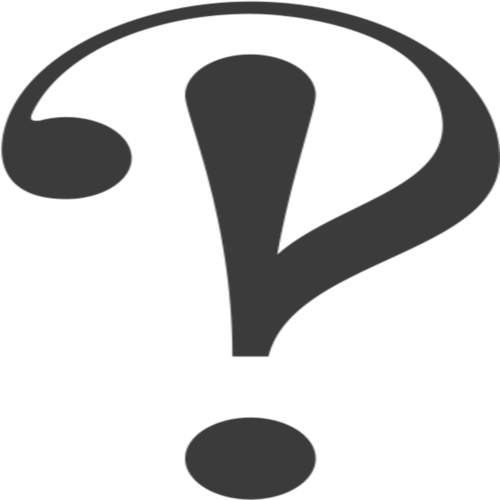
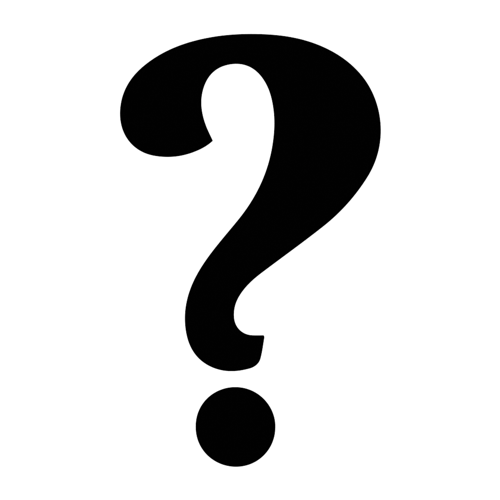
added some images and changed name to spyfall

diff --git a/public/service-worker.js b/public/service-worker.js
@@ -37,7 +37,7 @@
 /* eslint-disable indent, no-unused-vars, no-multiple-empty-lines, max-nested-callbacks, space-before-function-paren, quotes, comma-spacing */
 'use strict';
 
-var precacheConfig = [["app.js","16e49e1814f5ed0744223dba4b3ae9fa"],["browserconfig.xml","653d077300a12f09a69caeea7a8947f8"],["game.html","7c5897aa230f91f67d22be8becf40e0f"],["icons/android-icon-144x144.png","22a79be5a0272565bb5e49323ff9ca8f"],["icons/android-icon-192x192.png","0bbcf1657dee640be57fbaa82a162f0c"],["icons/android-icon-36x36.png","1e9cfc9ef22a74474761a5275bccbd18"],["icons/android-icon-48x48.png","ff3b9bdaee9c583a9146e191b04a151b"],["icons/android-icon-72x72.png","36d502b0e594e5933a96ba3fb874e817"],["icons/android-icon-96x96.png","c89cc107317601d58ca07e011486aa1d"],["icons/apple-icon-114x114.png","659a1d0b0c9bf3b32be06536e62a8e6a"],["icons/apple-icon-120x120.png","df0a728616bc53d9698249227ff84461"],["icons/apple-icon-144x144.png","22a79be5a0272565bb5e49323ff9ca8f"],["icons/apple-icon-152x152.png","573da1c8b7f31eb6c5d7de2f34e46fdf"],["icons/apple-icon-180x180.png","ac7278ded1e208a056e397aa9a6697a9"],["icons/apple-icon-57x57.png","c2bafc1d6e0e9273286541d5d289ead8"],["icons/apple-icon-60x60.png","a3fa6dee18c9646d0af13dbad8189652"],["icons/apple-icon-72x72.png","36d502b0e594e5933a96ba3fb874e817"],["icons/apple-icon-76x76.png","5f8dc17dbe413c47ec79bbd1dd02aeba"],["icons/apple-icon-precomposed.png","715af392fb846978e96c5e027506293f"],["icons/apple-icon.png","715af392fb846978e96c5e027506293f"],["icons/favicon-16x16.png","9938e16f64d32f0fb20eaca5e708be8a"],["icons/favicon-32x32.png","7da7e2a542f074c52a7aa72ce549c972"],["icons/favicon-96x96.png","c89cc107317601d58ca07e011486aa1d"],["icons/favicon.ico","9b2efce042caa48179bb68994c96aa33"],["icons/ms-icon-144x144.png","22a79be5a0272565bb5e49323ff9ca8f"],["icons/ms-icon-150x150.png","7ad943f43334f8fcb25f6d856d79be99"],["icons/ms-icon-310x310.png","5e39580ab2032e846126a3528da83b01"],["icons/ms-icon-70x70.png","ee8050990747c73b78e6837aec8eb531"],["images/question.png","f5be92d1206daa5989df30dfe8be58c6"],["images/sus.png","4441166bd87d048ef62aae65f757288d"],["index.html","c03ffe26ca5571d8a2d097403c9ccb75"],["index.js","ca2a6f7a1355f34a6a6dc4347d8f3fbb"],["locations/Basement.png","7e2eda6fe058609b46d4966eb113b023"],["locations/Beach.png","10d461891c791c861fd00d4808884011"],["locations/Chernobyl.png","59c4d960c978a1a315a05eb0a78ff645"],["locations/Hospital.png","cada1cfb8594156e1e7128aa9ea83df2"],["locations/Hotel.png","caace84cad67323a99a064e6b739a4fd"],["locations/Paris.png","3c43fd00e0cc2bd5157e0e7cf0a9b09d"],["locations/School.png","d7d30a60dad50f7499cf2a2e3df61997"],["locations/Volcano.png","14e55a98f2515752d9a4758bf28374a3"],["locations/Waterpark.png","9449138f521831008def171063d984ae"],["manifest.json","18e7e40fadd134a70cfe062b6bcb5e12"],["style.css","9b5bac206b55f9105481926835fd0378"]];
+var precacheConfig = [["app.js","16e49e1814f5ed0744223dba4b3ae9fa"],["browserconfig.xml","653d077300a12f09a69caeea7a8947f8"],["game.html","2d786c0db9e43b62d6bffa10935b0dda"],["icons/android-icon-144x144.png","22a79be5a0272565bb5e49323ff9ca8f"],["icons/android-icon-192x192.png","0bbcf1657dee640be57fbaa82a162f0c"],["icons/android-icon-36x36.png","1e9cfc9ef22a74474761a5275bccbd18"],["icons/android-icon-48x48.png","ff3b9bdaee9c583a9146e191b04a151b"],["icons/android-icon-72x72.png","36d502b0e594e5933a96ba3fb874e817"],["icons/android-icon-96x96.png","c89cc107317601d58ca07e011486aa1d"],["icons/apple-icon-114x114.png","659a1d0b0c9bf3b32be06536e62a8e6a"],["icons/apple-icon-120x120.png","df0a728616bc53d9698249227ff84461"],["icons/apple-icon-144x144.png","22a79be5a0272565bb5e49323ff9ca8f"],["icons/apple-icon-152x152.png","573da1c8b7f31eb6c5d7de2f34e46fdf"],["icons/apple-icon-180x180.png","ac7278ded1e208a056e397aa9a6697a9"],["icons/apple-icon-57x57.png","c2bafc1d6e0e9273286541d5d289ead8"],["icons/apple-icon-60x60.png","a3fa6dee18c9646d0af13dbad8189652"],["icons/apple-icon-72x72.png","36d502b0e594e5933a96ba3fb874e817"],["icons/apple-icon-76x76.png","5f8dc17dbe413c47ec79bbd1dd02aeba"],["icons/apple-icon-precomposed.png","715af392fb846978e96c5e027506293f"],["icons/apple-icon.png","715af392fb846978e96c5e027506293f"],["icons/favicon-16x16.png","9938e16f64d32f0fb20eaca5e708be8a"],["icons/favicon-32x32.png","7da7e2a542f074c52a7aa72ce549c972"],["icons/favicon-96x96.png","c89cc107317601d58ca07e011486aa1d"],["icons/favicon.ico","9b2efce042caa48179bb68994c96aa33"],["icons/ms-icon-144x144.png","22a79be5a0272565bb5e49323ff9ca8f"],["icons/ms-icon-150x150.png","7ad943f43334f8fcb25f6d856d79be99"],["icons/ms-icon-310x310.png","5e39580ab2032e846126a3528da83b01"],["icons/ms-icon-70x70.png","ee8050990747c73b78e6837aec8eb531"],["images/question.png","bae0181f7d859ce53877ca419600ac38"],["images/sus.png","4441166bd87d048ef62aae65f757288d"],["index.html","fb333f19f0c1ffcd3a5612ec49579a1d"],["index.js","ca2a6f7a1355f34a6a6dc4347d8f3fbb"],["locations/Airplane.png","7ffb70609be5abd2895f4954c4a08336"],["locations/Bank.png","251ca2e325a8d2b887a09a1963b991ed"],["locations/Basement.png","7e2eda6fe058609b46d4966eb113b023"],["locations/Beach.png","10d461891c791c861fd00d4808884011"],["locations/Casino.png","7d61117afbfc098a4738b7175bf16082"],["locations/Chernobyl.png","59c4d960c978a1a315a05eb0a78ff645"],["locations/Club.png","39e15c13d28bead3aa5010c50df0b9eb"],["locations/Gas Station.png","b85f015fdbf42d11f8fa7a503e7d93f2"],["locations/Hospital.png","cada1cfb8594156e1e7128aa9ea83df2"],["locations/Hotel.png","caace84cad67323a99a064e6b739a4fd"],["locations/Jail.png","3ce1c858c65122e2bebf4dd0d069bfd5"],["locations/Paris.png","3c43fd00e0cc2bd5157e0e7cf0a9b09d"],["locations/School.png","d7d30a60dad50f7499cf2a2e3df61997"],["locations/Volcano.png","14e55a98f2515752d9a4758bf28374a3"],["locations/Waterpark.png","9449138f521831008def171063d984ae"],["locations/Zoo.png","797dd24d0c18af27a991a98085e2af1d"],["manifest.json","b51228e8523a4b13b4dbf4266ce8b7d0"],["style.css","9b5bac206b55f9105481926835fd0378"]];
 var cacheName = 'sw-precache-v3-sw-precache-' + (self.registration ? self.registration.scope : '');
 
 

diff --git a/public/game.html b/public/game.html
@@ -1,7 +1,7 @@
 <!DOCTYPE html>
 <html lang="en">
     <head>
-        <title>Spy Game</title>
+        <title>Spyfall</title>
         <meta charset="utf-8">
         <meta name="viewport" content="width=device-width, initial-scale=1, shrink-to-fit=no">
 

diff --git a/public/index.html b/public/index.html
@@ -1,7 +1,7 @@
 <!DOCTYPE html>
 <html lang="en">
     <head>
-        <title>Spy Game</title>
+        <title>Spyfall</title>
         <meta charset="utf-8">
         <meta name="viewport" content="width=device-width, initial-scale=1, shrink-to-fit=no">
 
